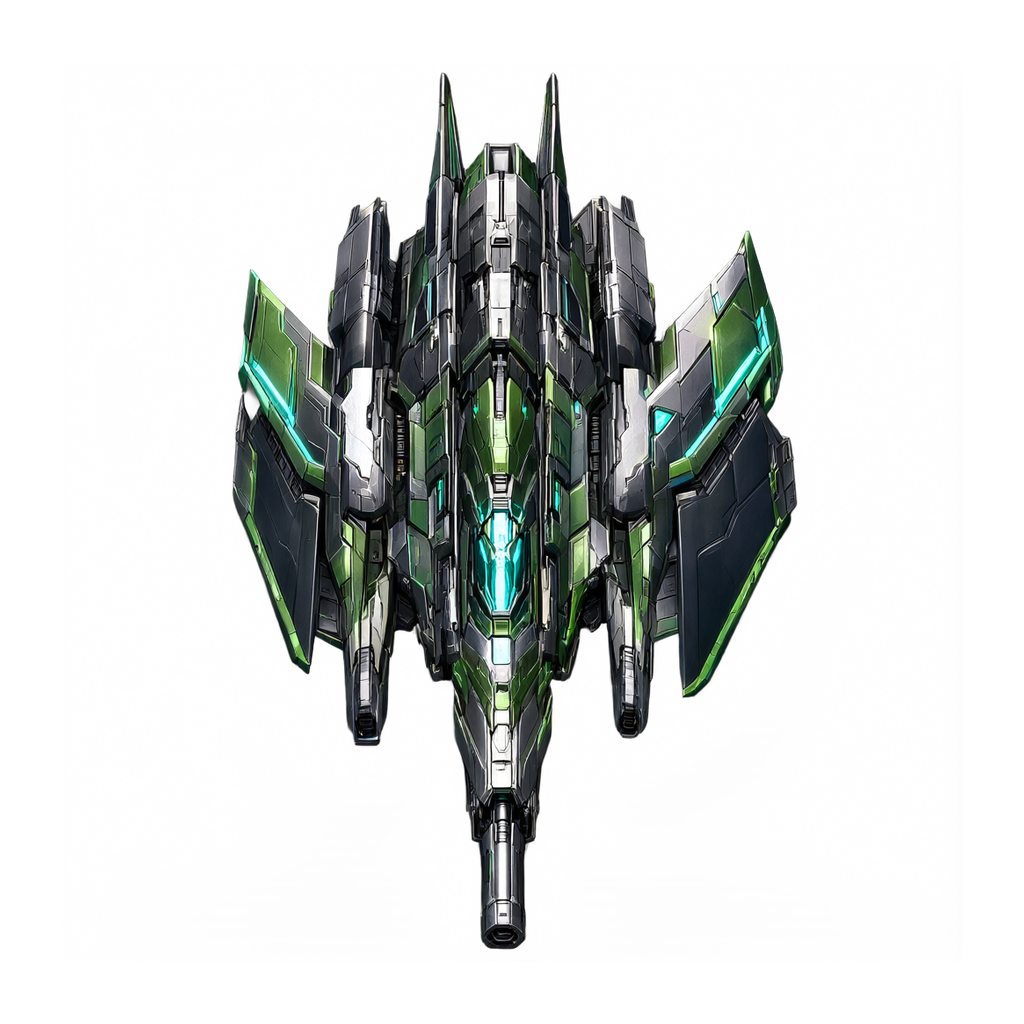
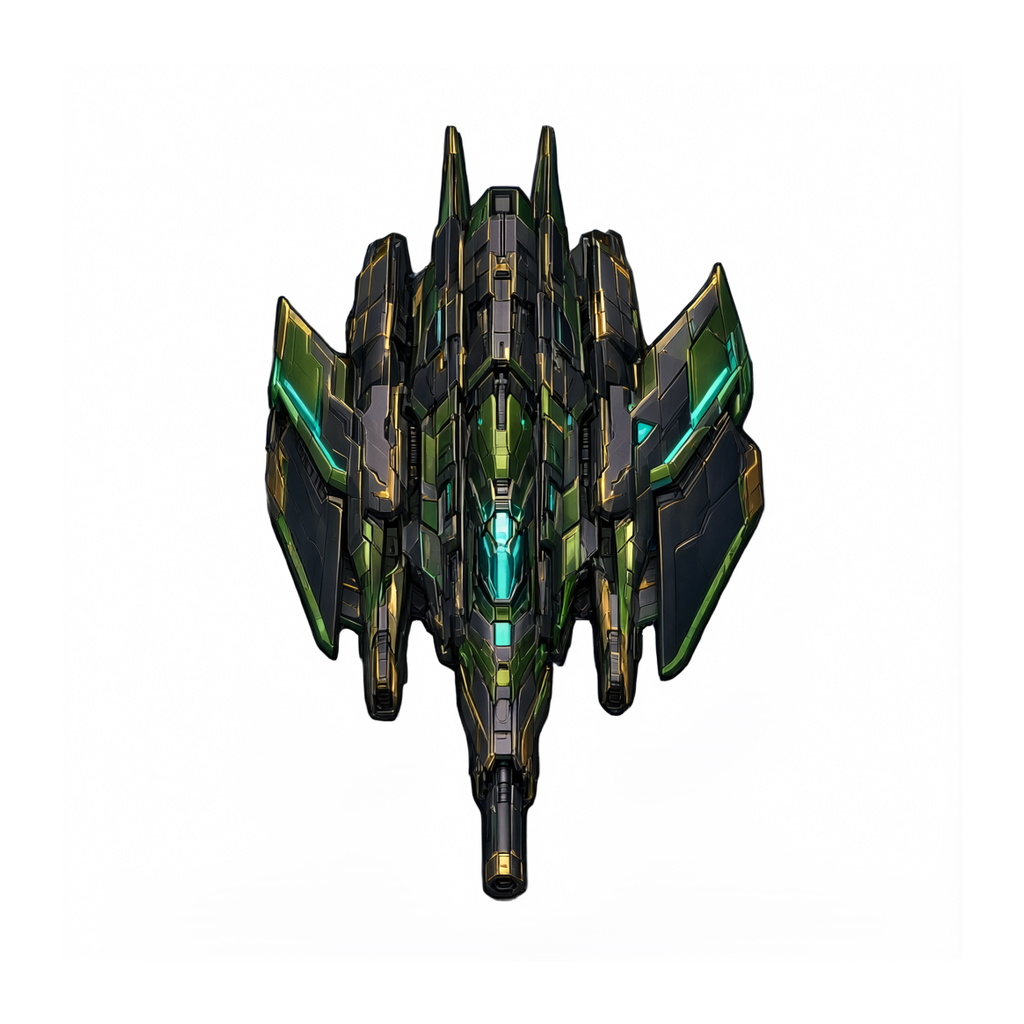
Add elite enemy variants and enemy design reference

Changed region(s): [[0.2188, 0.0625, 0.7812, 0.9375]]

diff --git a/game3.js b/game3.js
@@ -1298,7 +1298,7 @@ function drawSentry(e){
 }
 function drawEnemy(e){
   if(e.type===6){drawSentry(e);return;}
-  var et=ET[e.type],key='n'+(e.type+1),img=GIMG[key];
+  var et=ET[e.type],key='n'+(e.type+1)+(e.elite?'b':''),img=GIMG[key]||GIMG['n'+(e.type+1)];
   if(!img||!img.complete) return;
   var mir=!!MIRROR_TYPES[e.type];if(mir) img=enemyMirrorImg(e.type,img);
   var w=et.w*(mir?1.5:1)*(e.transport?1.45:(e.elite?1.58:1)),h=w*img.height/img.width;

diff --git a/docs/ENEMY_DESIGN.md b/docs/ENEMY_DESIGN.md
@@ -1,0 +1,37 @@
+# Enemy Fleet Design
+
+## Direction
+
+A unified enemy fleet for the four-stage campaign:
+
+- dark gunmetal mechanical armor
+- crisp panel lines and readable silhouettes
+- one faction color per role
+- nose-down orientation for the vertical shmup camera
+- normal (`_1`) and elite (`_2`) variants share the same silhouette family
+- old vector sprites are kept in `docs/enemies/vector/` as design history
+
+## Roster
+
+| # | Role | Normal palette | Elite palette | Gameplay read |
+|---|------|----------------|---------------|---------------|
+| 1 | Small Fighter | white / red | black / gold / crimson | fast, small hitbox, rush waves |
+| 2 | Medium Fighter | green / silver | black / dark green / gold | mid-tier escort, aimed shots |
+| 3 | Scout | purple / gold | black / gold / violet-white | circular drone, rings and sweeps |
+| 4 | Bomber | deep blue / cyan | black / blue / orange | heavy, slow, wide bullet walls |
+| 5 | Mech | brass / gunmetal | black / brass / red | armored gunship, dense fire |
+| 6 | Interceptor | blue / violet | matte black / violet / magenta | fast flanker, converging shots |
+
+## Files
+
+Normal: `gpt-assets/enemies/NN_<role>_1.png`  
+Elite: `gpt-assets/enemies/NN_<role>_2.png`  
+Vector reference: `docs/enemies/vector/NN_<role>.png`  
+Design board: `art-tests/enemies-design-board.jpg` (working review image)
+
+## Usage
+
+- Normal waves use `_1`.
+- Elite / ace waves use `_2`.
+- Do not bulk-rotate enemy sprites; all source art already points down.
+- Keep the transparent 1024×1024 canvas and center the body for consistent hitbox/visual alignment.
